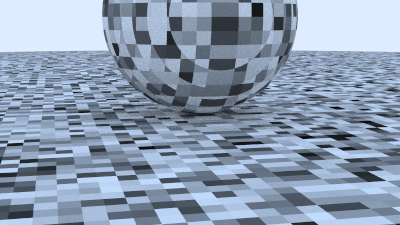
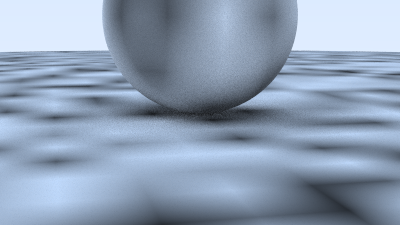
Perlin texture with trilinear interpolation

diff --git a/perlin.h b/perlin.h
@@ -15,11 +15,24 @@ public:
     }
 
     float noise(const point3 &p) const {
-        auto i = int(4 * p.x()) & 255;
-        auto j = int(4 * p.y()) & 255;
-        auto k = int(4 * p.z()) & 255;
+        auto u = p.x() - std::floorf(p.x());
+        auto v = p.y() - std::floorf(p.y());
+        auto w = p.z() - std::floorf(p.z());
 
-        return randfloat[perm_x[i] ^ perm_y[j] ^ perm_z[k]];
+        auto i = int(std::floorf(p.x()));
+        auto j = int(std::floorf(p.y()));
+        auto k = int(std::floorf(p.z()));
+
+        // 进行三线性插值平滑噪声
+        float c[2][2][2];
+        for (int di = 0; di < 2; di++)
+            for (int dj = 0; dj < 2; dj++)
+                for (int dk = 0; dk < 2; dk++)
+                    // x & 255: 将 x 截断成 0 - 255 的整数
+                    // ^ 进行异或哈希
+                    c[di][dj][dk] = randfloat[perm_x[(i + di) & 255] ^ perm_x[(j + dj) & 255] ^ perm_x[(k + dk) & 255]];
+
+        return trilinear_interp(c, u, v, w);
     }
 
 private:
@@ -42,6 +55,19 @@ private:
             p[i] = p[target];
             p[target] = tmp;
         }
+    }
+
+    static float trilinear_interp(float c[2][2][2], float u, float v, float w) {
+        // 三线性插值
+        auto accum = 0.0f;
+        for (int i = 0; i < 2; i++)
+            for (int j = 0; j < 2; j++)
+                for (int k = 0; k < 2; k++)
+                    accum += (i * u + (1 - i) * (1 - u))
+                             * (j * v + (1 - j) * (1 - v))
+                             * (k * w + (1 - k) * (1 - w))
+                             * c[i][j][k];
+        return accum;
     }
 };
 
